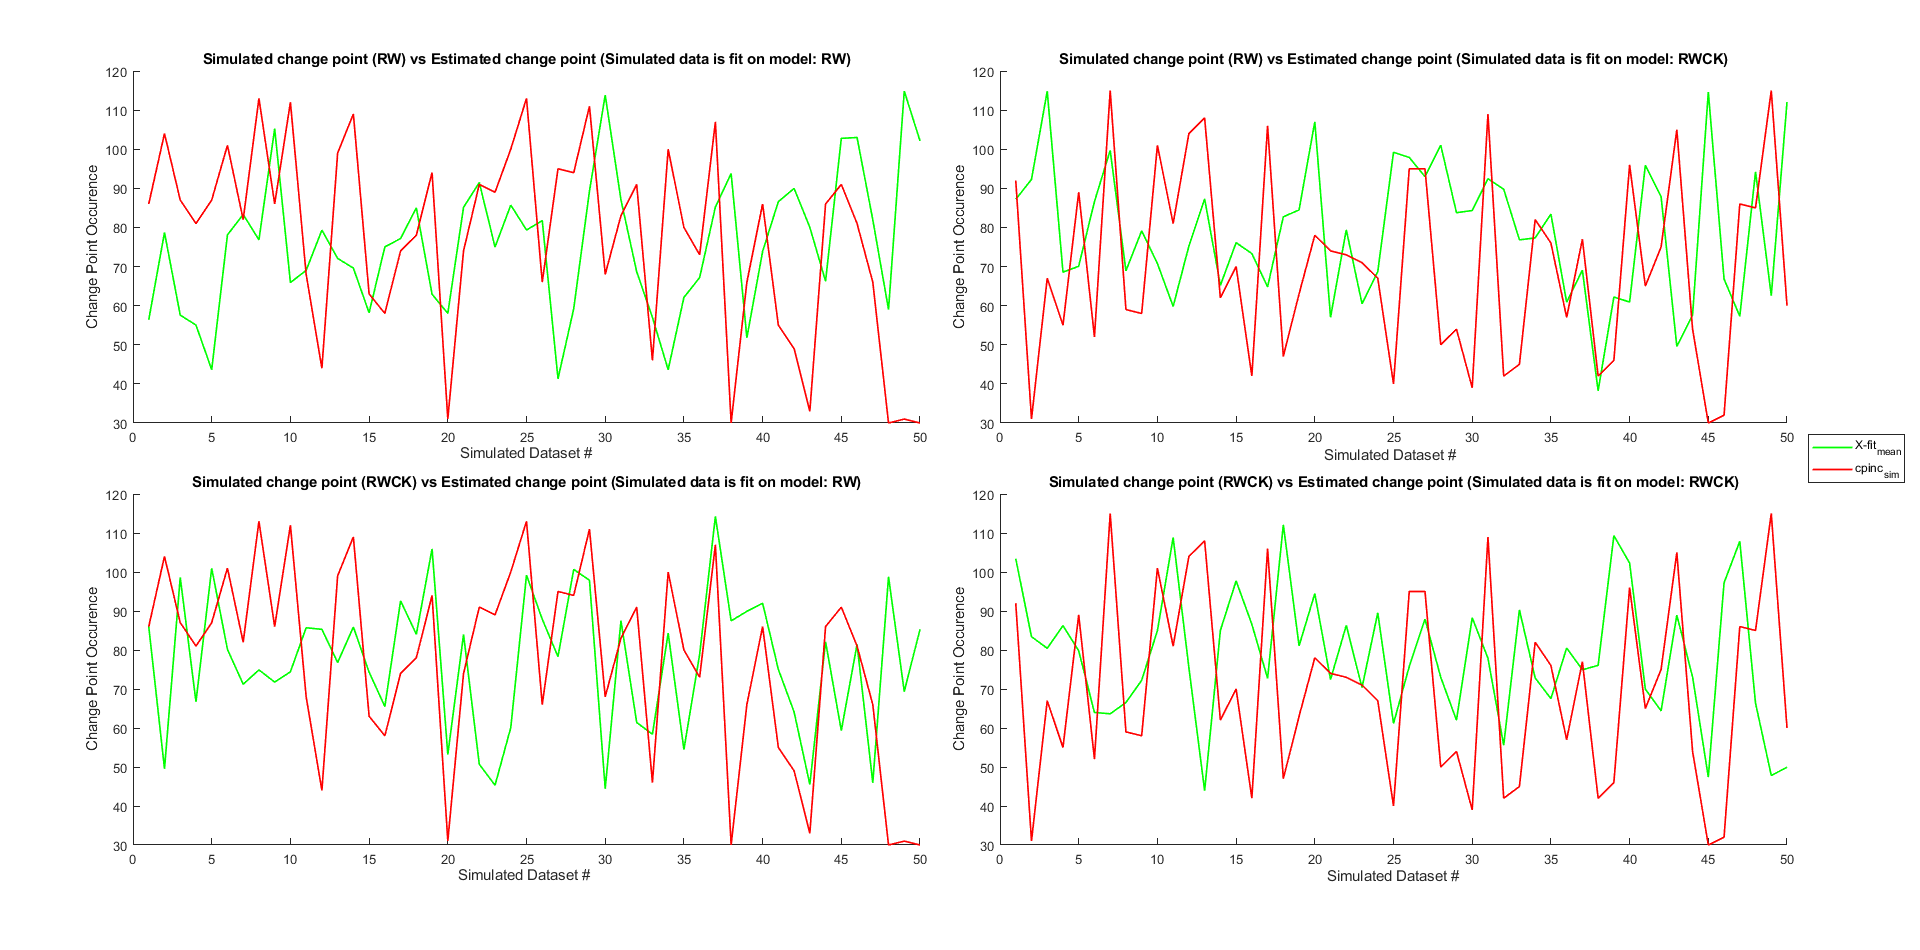
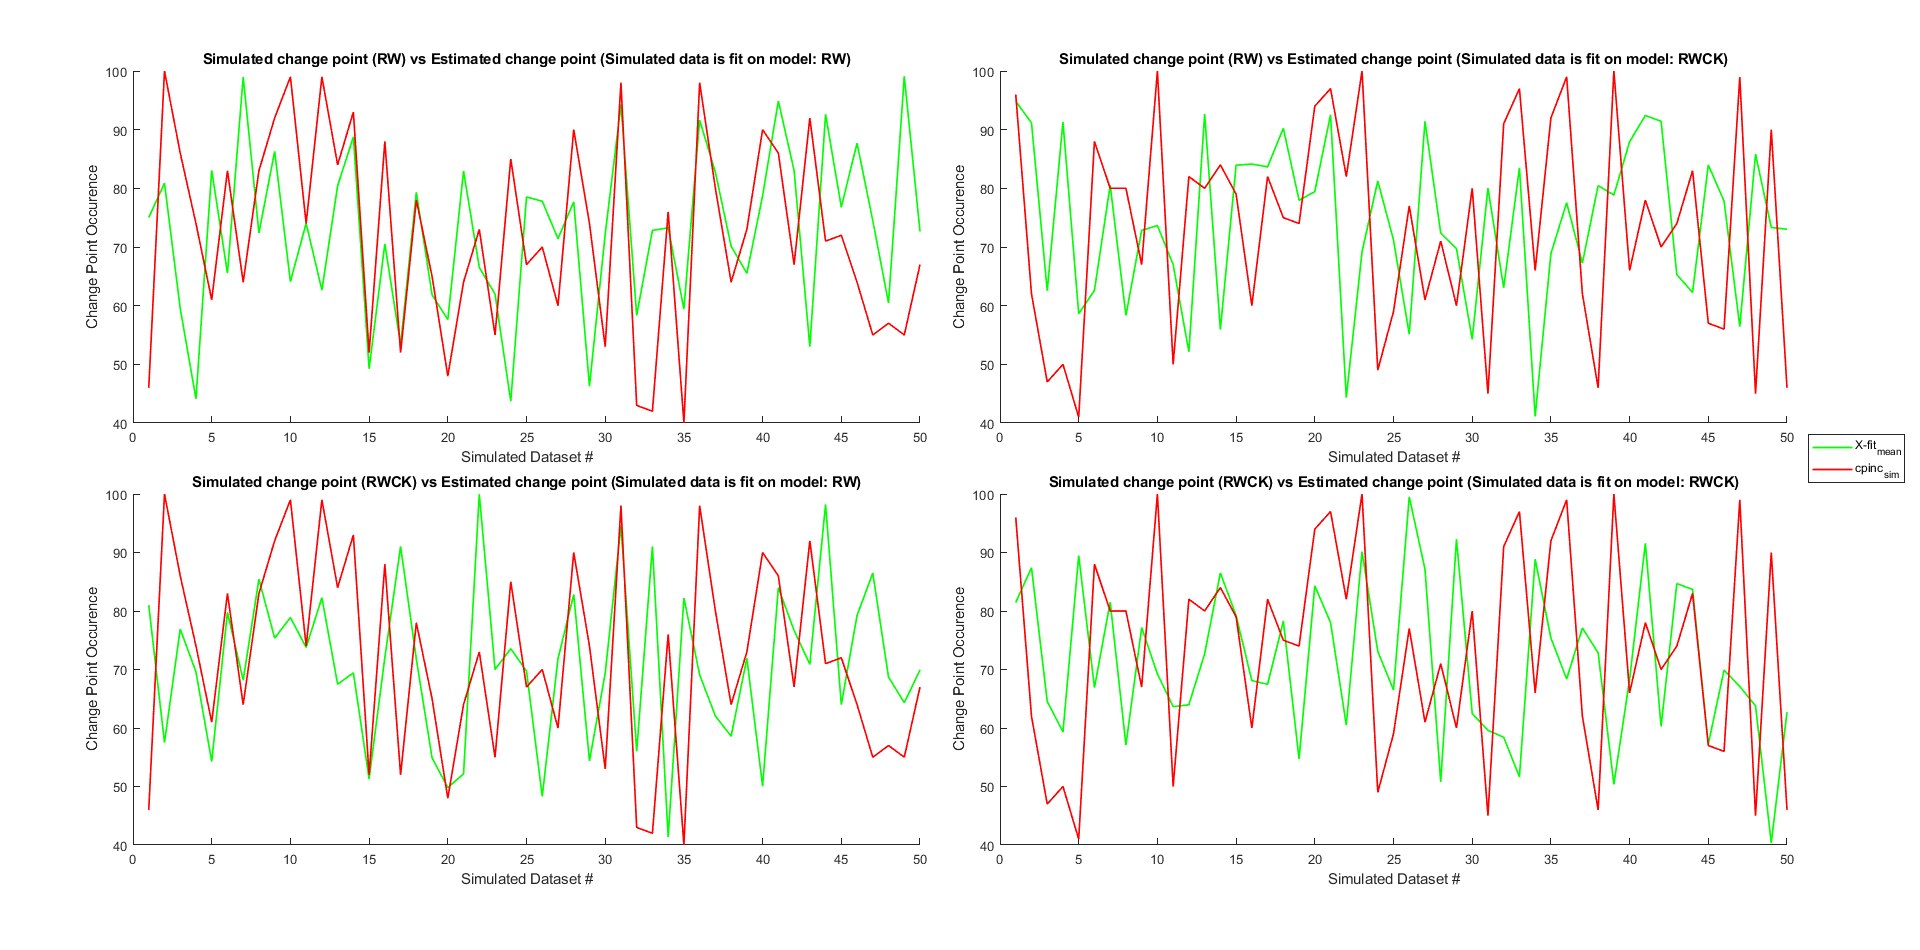
There comes the butterfly!

diff --git a/matlab_code/simulate_models.m b/matlab_code/simulate_models.m
@@ -32,7 +32,7 @@ function [data1, data2] = simulate_models()
     %parameters = NaN(nReps, 2);
     for n = 1:nReps
         fprintf('Rep %1.0f\n',n)
-        cpinc = randi([30, 115]);
+        cpinc = randi([40, 100]);
         [a, r, learning_rate, inverse_temp] = simulate_rw_updated(cpinc);
         %parameters(n, :) = [learning_rate inverse_temp];
         parameter_cp(n) = cpinc;
@@ -49,7 +49,7 @@ function [data1, data2] = simulate_models()
     parameters = NaN(nReps, 4);
     for n = 1:nReps
         fprintf('Rep %1.0f\n',n)
-        cpinc = randi([30, 115]);
+        cpinc = randi([40, 100]);
         [a, r, learning_rate, learning_rate_c, inverse_temp, inverse_temp_c] = simulate_rwck_updated(cpinc);
         %parameters(n) = [learning_rate learning_rate_c inverse_temp inverse_temp_c];
         parameter_cp(n) = cpinc;

diff --git a/matlab_code/fit_models_on_data.m b/matlab_code/fit_models_on_data.m
@@ -17,9 +17,9 @@ function [Xfit, LL, BIC, Xfit_mean, X0] = fit_rw_updated(a, r, nIter)
     for i = 1:nIter
         obFunc = @(x) lik_rw_updated(a, r, x);
      
-        X0 = randi([30, 115]);
-        LB = 30;
-        UB = 115;
+        X0 = randi([40, 100]);
+        LB = 40;
+        UB = 100;
         [Xfit(i), NegLL(i)] = fmincon(obFunc, X0, [], [], [], [], LB, UB);
     end
     
@@ -37,9 +37,9 @@ function [Xfit, LL, BIC, Xfit_mean, X0] = fit_rwck_updated(a, r, nIter)
     for i=1:nIter
         obFunc = @(x) lik_rwck_updated(a, r, x);
         
-        X0 = randi([30, 115]);
-        LB = 30;
-        UB = 115;
+        X0 = randi([40, 100]);
+        LB = 40;
+        UB = 100;
         [Xfit(i), NegLL(i)] = fmincon(obFunc, X0, [], [], [], [], LB, UB);
     end
 
